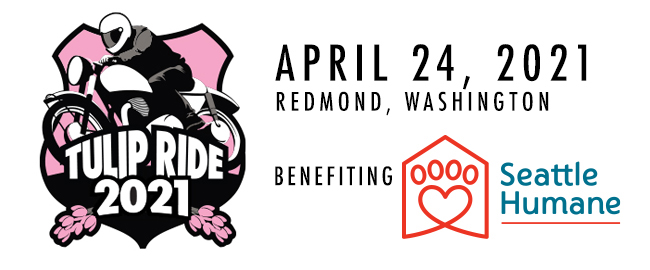
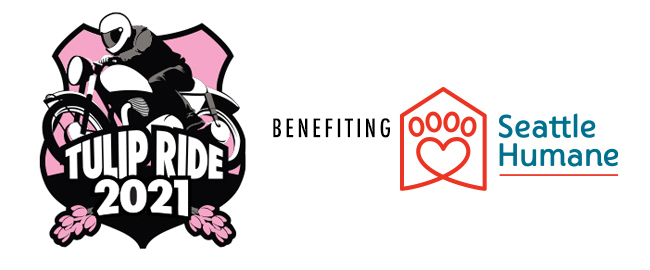
Updated for no-date-yet announcement

Changed region(s): [[0.4, 0.1481, 0.9538, 0.8889], [0.7385, 0.1481, 0.9231, 0.2963]]

diff --git a/index.md b/index.md
@@ -6,48 +6,17 @@ blurb: Riding together to help Seattle Humane save lives and complete families.
 permalink: /index.html
 ---
 
-The Tulip Ride brings motorcyclists together to benefit the Seattle Humane on their mission to save lives and complete families. Every April, we kick off the Pacific Northest motorcycle riding season with a fundraiser ride from Redmond to the Skagit Valley tulip festival. 
+The Tulip Ride brings motorcyclists together to benefit the Seattle Humane on their mission to save lives and complete families. We kick off the Pacific Northest motorcycle riding season with a fundraiser ride from Redmond to the Skagit Valley tulip festival. 
 
-### [Register now to secure your spot](./register.html) for the {{ site.ride_date | date: '%B %d' }} ride! Everyone is welcome, whether you ride or not!
+### We'll announce the date for Tulip Ride 2021 as soon as conditions are safe for large-group gatherings.
 
-## Highlights include...
+While we miss riding together to support such an important cause, safety is our top priority for everyone who participates in the Tulip Ride. 
 
-* Joined by celebrity guests for Saturday's ride and VIP dinner!
+COVID trends continue to rise, and do not yet have a clear line of site on when it'll be safe to schedule Tulip Ride 2021. As a result, **we're delaying picking a date until official guidance - based upon data - is available.**
 
-<div class="celeb">
-	<img src="/assets/images/celebs/ks.jpg"><br>
-	<span class="profilepiccaption"><a href="http://kateesackhoff.com" target="_blank">KATEE<br>SACKHOFF</a></span>
-</div>
+In the meantime, thank you for doing your part to help our communities bounce back by wearing a mask in public places, washing hands frequently, and observerving social distancing guidelines.
 
-<div class="celeb">
-	<img src="/assets/images/celebs/th.jpg"><br>
-	<span class="profilepiccaption"><a href="https://www.triciahelfer.com" target="_blank">TRICIA<br>HELFER</a></span>
-</div>
-
-<div class="celeb">
-	<img src="/assets/images/celebs/jf.jpg"><br>
-	<span class="profilepiccaption"><a href="http://www.jthanfernandez.com" target="_blank">JOHNATHAN<br>FERNANDEZ</a></span>
-</div>
-
-<div class="celeb">
-	<img src="/assets/images/celebs/b.jpg"><br>
-	<span class="profilepiccaption"><a href="https://957thejet.iheart.com/featured/jodi-bender-mornings/" target="_blank">BENDER<br></a>&nbsp;</span>
-</div>
-
-<div class="celeb">
-	<img src="/assets/images/celebs/rs.jpg"><br>
-	<span class="profilepiccaption"><a href="https://linktr.ee/therekhasharma" target="_blank">REKHA<br>SHARMA</a></span>
-</div>
-
-* Discounted Blazing Bagels breakfast, free drip coffee before the ride!
-* Scenic ride up Marine View Drive in small, guided packs of bikes.
-* Afternoon at the Skagit Valley Tulip Festival, including:	
-	* Private parking and covered lunch area reserved for Tulip Riders
-	* Complimentary admission to Roozengaarde Tulip Farm
-	* Hot lunch &amp; beverages for all riders &amp; passengers provided by J&amp;L BBQ
-	* Commemorative ride pin, bandana, and more!
-		    
-Questions? <a href="mailto:info@tulipride.org">Contact us!</a>
+Stay safe, check back for updates, and feel free <a href="mailto:info@tulipride.org">contact us</a> anytime!
 
 		
 	

diff --git a/register.md b/register.md
@@ -6,26 +6,7 @@ blurb: Riding together to help Seattle Humane save lives and complete families.
 permalink: /register/
 ---
 
-## Register for the  Tulip Ride!
+## Please check back soon.
 
-Registration for the Tulip Ride is a donation directly to [Seattle Humane](http://www.seattlehumane.org). Please select your donation level to secure your spot at the {{ site.ride_date | date: '%Y' }} Tulip Ride.
-
-<!-- #### Standard Registration:
-> $50 for anyone to join the event. Whether you're a rider, passenger, or just getting an autograph, you'll need one of these tickets. Includes commemorative ride pins and bandanas.
-Motorcycle riders and passengers also get a BBQ lunch admission to the tulip field attractions.
-
-#### VIP Road Captain Registration:
-> Only 25 spots! Includes everything in the Standard registration, plus...
-     
-> * Exclusive party after the ride with dinner, drinks, and more with our celebrity guests.
-> * First-pack departure to the tulip fields.
-> * Guided ride home at the end of the day.
-> * The joy of knowing that you've helped animals in need with the most generous donation!
--->
-     
-  <div>
-  <link rel="stylesheet" type="text/css" href="https://www.brownpapertickets.com/widget_v671.css" /> <DIV ID="bpt_eventbody"><CENTER><BR><BR>Brown Paper Tickets Ticket Widget Loading...<BR><BR><A HREF="https://www.brownpapertickets.com/event/4760831">Click Here</A> to visit the Brown Paper Tickets event page.</CENTER><BR><BR></DIV> <script src="https://www.brownpapertickets.com/eventwidget.js?event=4760831&nodescription=1&notitle=1" type="text/javascript" language="javascript"></script> <script src="https://www.brownpapertickets.com/widget_v671.js?event=4760831" type="text/javascript" language="javascript"></script>
-  </div>
-
-###### Please <a href="faq.php">review our FAQ</a> for the latest updates. Notably: there are no refunds for registrations (they're donations). *Microsoft/Amazon/GoDaddy/Boeing employees:* Please submit a request for matching gifts to your employer! The match goes to The Humane Society for Seattle/King County, Tax ID # 91-0282060 _(not the Tulip Ride)._
+We'll announce a date and open registration here as soon as we have a line of sight to a COVID-safe timeframe. 
 

diff --git a/route.md b/route.md
@@ -5,20 +5,7 @@ image: https://www.tulipride.org/assets/images/features.jpg
 blurb: Riding together to help Seattle Humane save lives and complete families.
 permalink: /route/
 ---
-### Date: *{{ site.ride_date | date: '%A, %B %d, %Y' }}.*
-
-* **8:00 - 9:30 a.m.** 
-    * Meet at [Blazing Bagels](http://www.blazingbagels.com) at 6975 176th Ave. NE Suite 365, Redmond, WA 98052.
-    * Free drip coffee, $1 off their amazing breakfast sandwiches, $1 off espresso drinks, and $1 of any bagel &amp; cream cheese sandwich.
-    * Photo ops and autographs with celebrity guests.
-* **9:15 a.m.**
-    * Pre-ride safety briefing and route update.<br>
-    NOTE: We will ride up in small packs of 10-20 bikes, each led by a designated pack lead. This keeps things safe for everyone riding.
-* **9:30 a.m.**
-    * Kickstands up for first batch of riders.
-* **11:30 a.m.**
-    * Arrive at [RoozenGaarde Tulip Farm](http://www.tulips.com) for an amazing BBQ lunch. Plus free parking for motorcycles, admittance to tulip gardens at Roozengaarde for all registered Tulip Riders.
-
+### Date: *To be announced*
 
 Route map with directions: [Google Maps](https://drive.google.com/open?id=1H9i6TmA-zhjUauf9SBezddJty1JNtE1p) / [GPS Database (GDB)](/assets/GPS/TulipRide.gdb) / [GPS Exchange Format (GPX)](/assets/GPS/TulipRide.gpx)<br>Note: you may need to remove waypoint alerts on your GPS.
 
